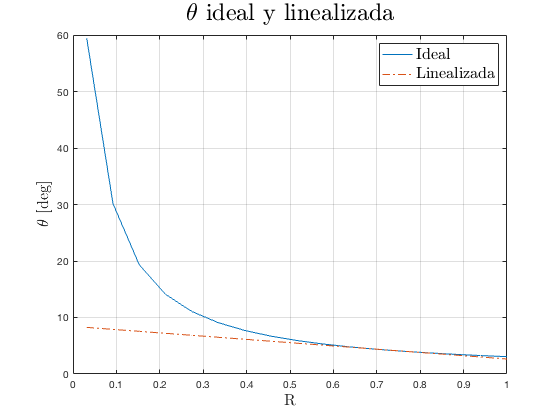
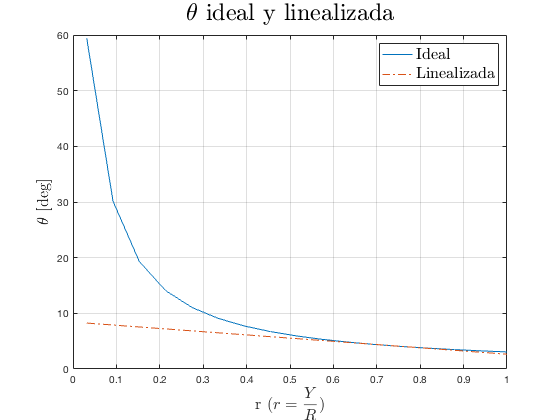
esa

diff --git a/TreballHelicopters/main.m b/TreballHelicopters/main.m
@@ -64,10 +64,10 @@ end
 figure
 plot(datos.Y/datos.R, solucio.vi); hold on;
 plot(datos.Y/datos.R, solucio.vi_p);
-title ('Velocitat induida','Interpreter','latex','Fontsize',18);
-xlabel('R','Interpreter','latex','Fontsize',16);
-ylabel('Velocitat Induida [m/s]','Interpreter','latex','Fontsize',16);
-legend('Velocitat induida ideal','Velocitat induida amb correcció per efectes de Prandtl');
+title ('Velocitat inducida','Interpreter','latex','Fontsize',18);
+xlabel('r ($$ r = \frac{Y}{R}$$)','Interpreter','latex','Fontsize',16);
+ylabel('Velocitat Inducida [m/s]','Interpreter','latex','Fontsize',16);
+legend('Velocitat inducida ideal','Velocitat inducida con correcciones de Prandtl');
 
 
 
@@ -149,7 +149,7 @@ plot(datos.Y/datos.R, rad2deg(solucio.theta));
 hold on; grid on;
 plot(datos.Y/datos.R, rad2deg(solucio.theta_lin),'-.');
 title ('$$\theta$$ ideal y linealizada','Interpreter','latex','Fontsize',24);
-xlabel('R','Interpreter','latex','Fontsize',16);
+xlabel('r ($$ r = \frac{Y}{R}$$)','Interpreter','latex','Fontsize',16);
 ylabel('$$\theta$$ [deg]','Interpreter','latex','Fontsize',16);
 legend('Ideal','Linealizada','Interpreter','latex','Fontsize',16);
 
@@ -164,13 +164,13 @@ ylabel('$$\sigma$$','Interpreter','latex','Fontsize',16);
 legend('Ideal','Linealizada','Interpreter','latex','Fontsize',16);
 
 
-figure
-plot( datos.Y/datos.R , rad2deg(solucio.theta));
-hold on;  grid on;
-plot( datos.Y/datos.R , rad2deg(solucio.theta_lin),'-.');
-title ('$$\theta$$ ideal','Interpreter','latex','Fontsize',20);
-xlabel('r ($$ r = \frac{Y}{R}$$)','Interpreter','latex','Fontsize',16);
-ylabel('$$\theta_{ideal}$$','Interpreter','latex','Fontsize',16);
+% figure
+% plot( datos.Y/datos.R , rad2deg(solucio.theta));
+% hold on;  grid on;
+% plot( datos.Y/datos.R , rad2deg(solucio.theta_lin),'-.');
+% title ('$$\theta$$ ideal','Interpreter','latex','Fontsize',20);
+% xlabel('r ($$ r = \frac{Y}{R}$$)','Interpreter','latex','Fontsize',16);
+% ylabel('$$\theta_{ideal}$$','Interpreter','latex','Fontsize',16);
 
 end
 
